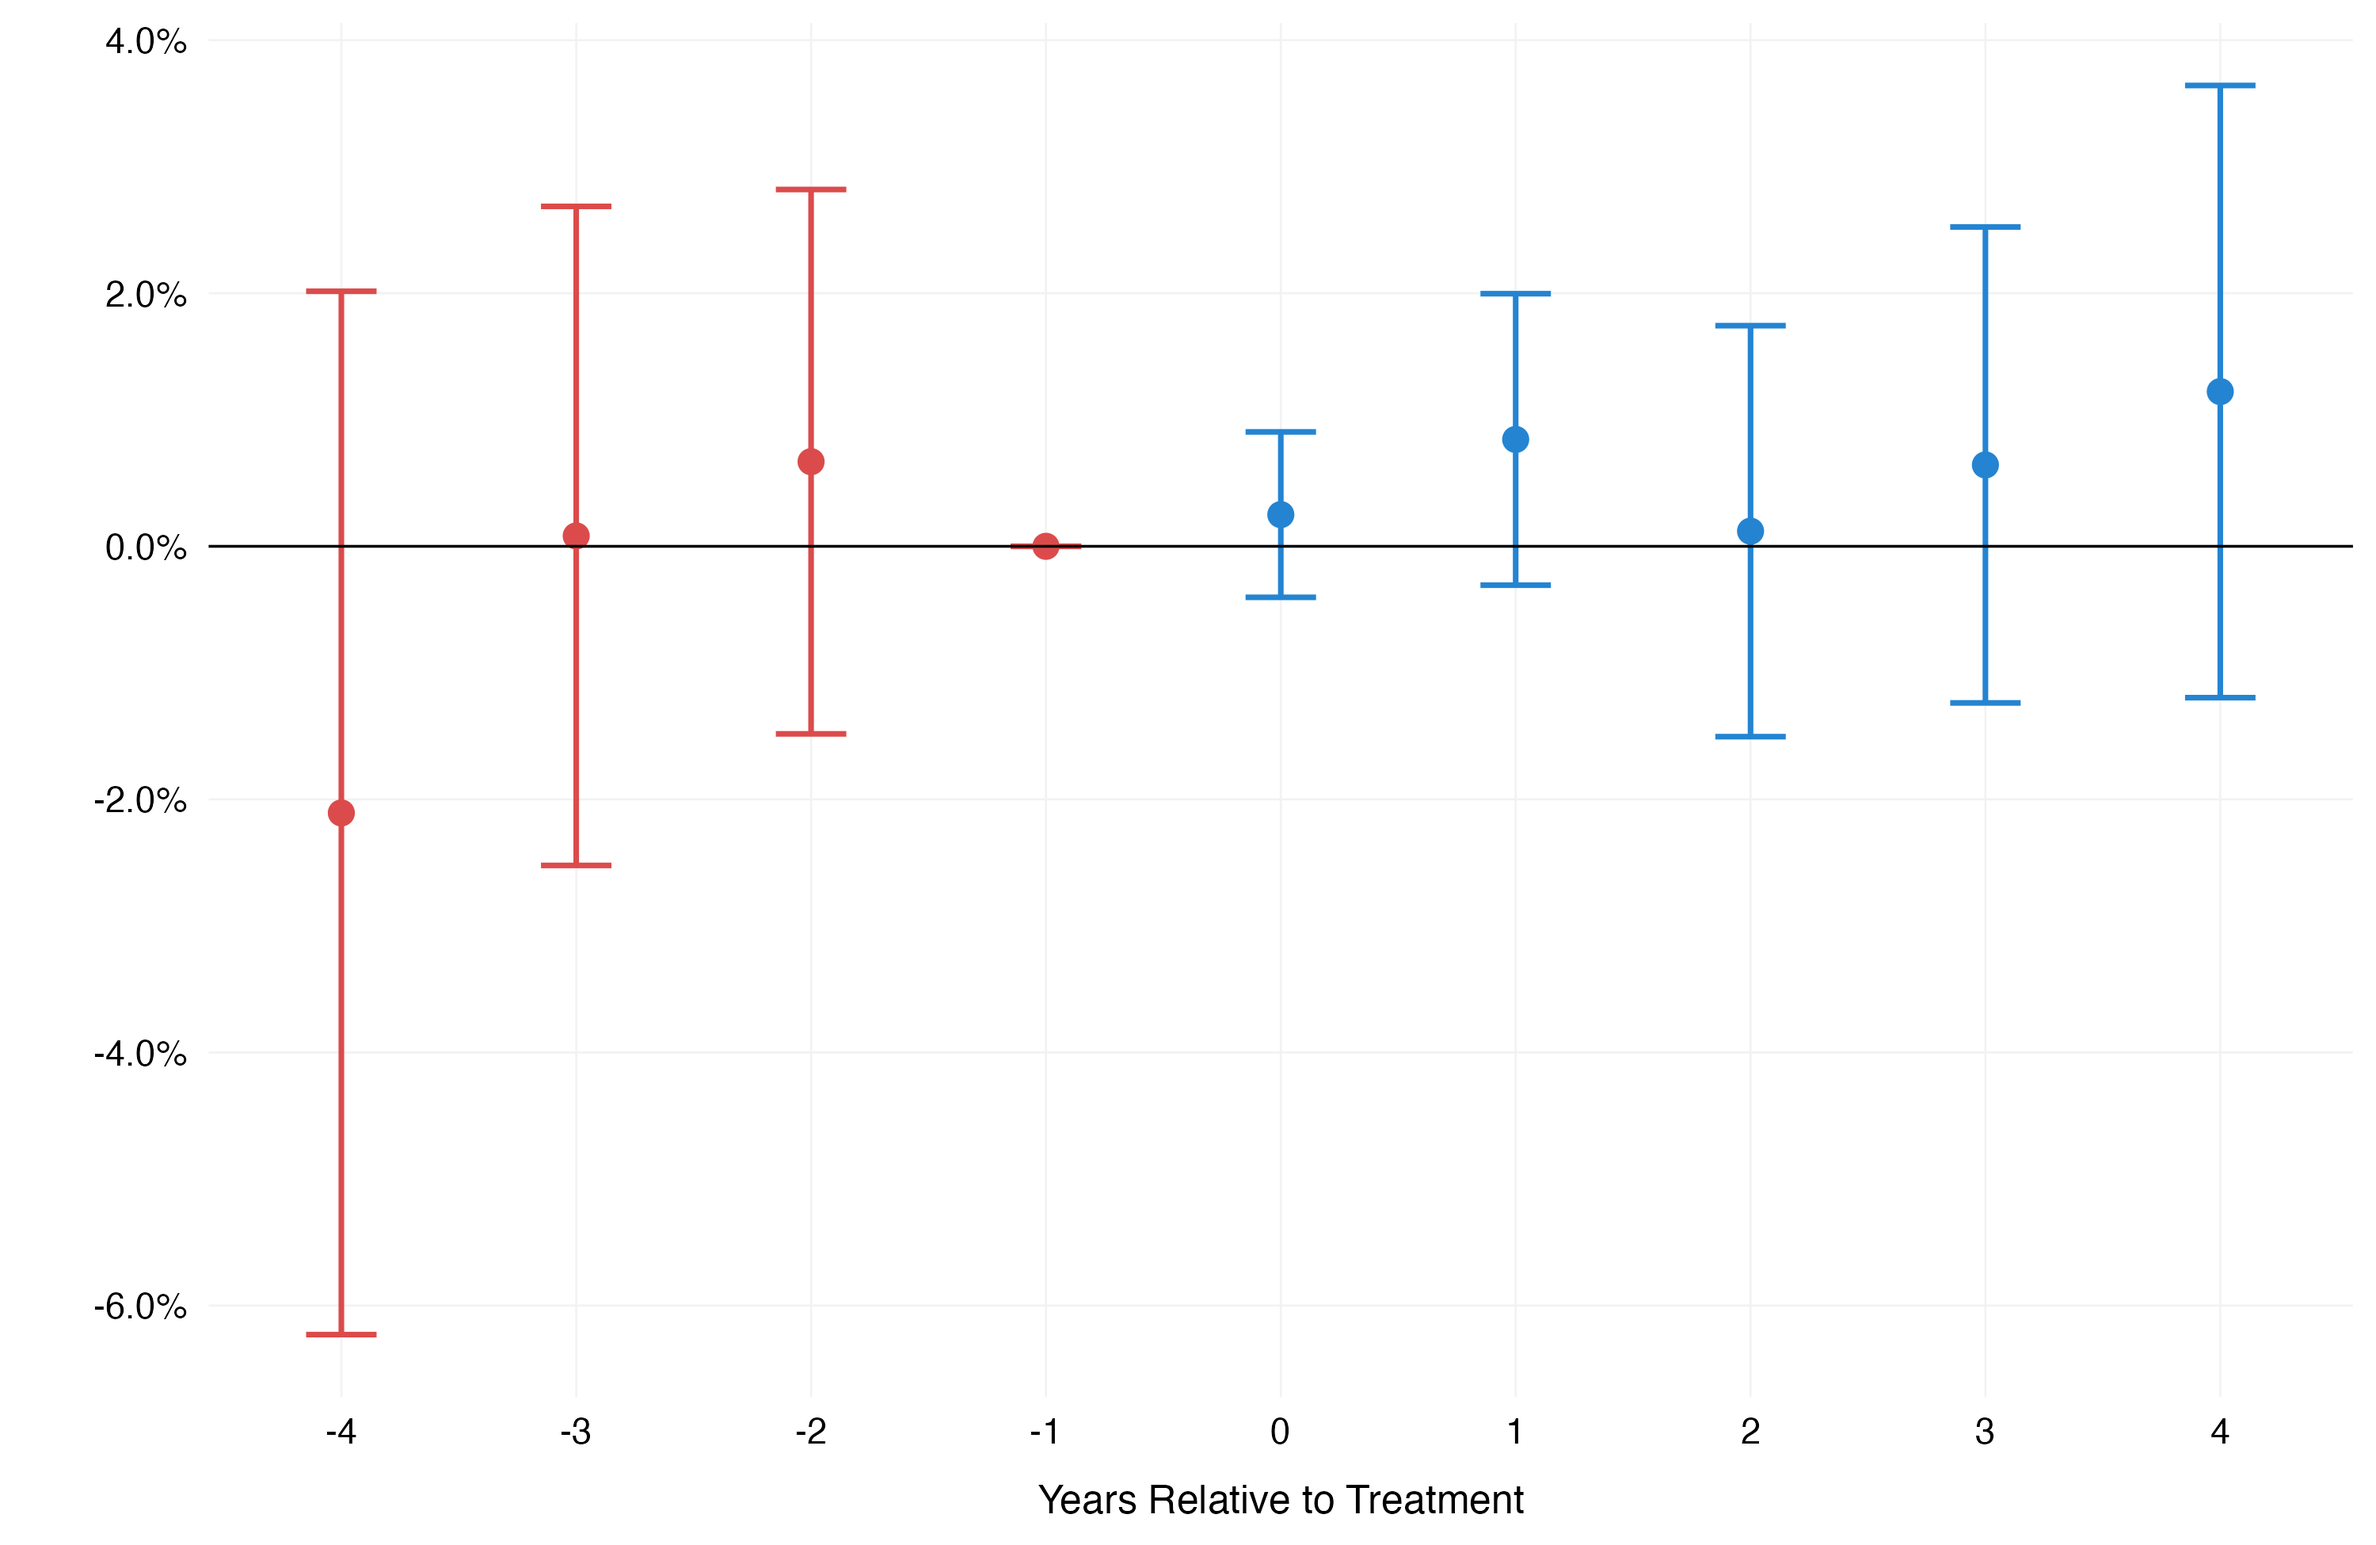
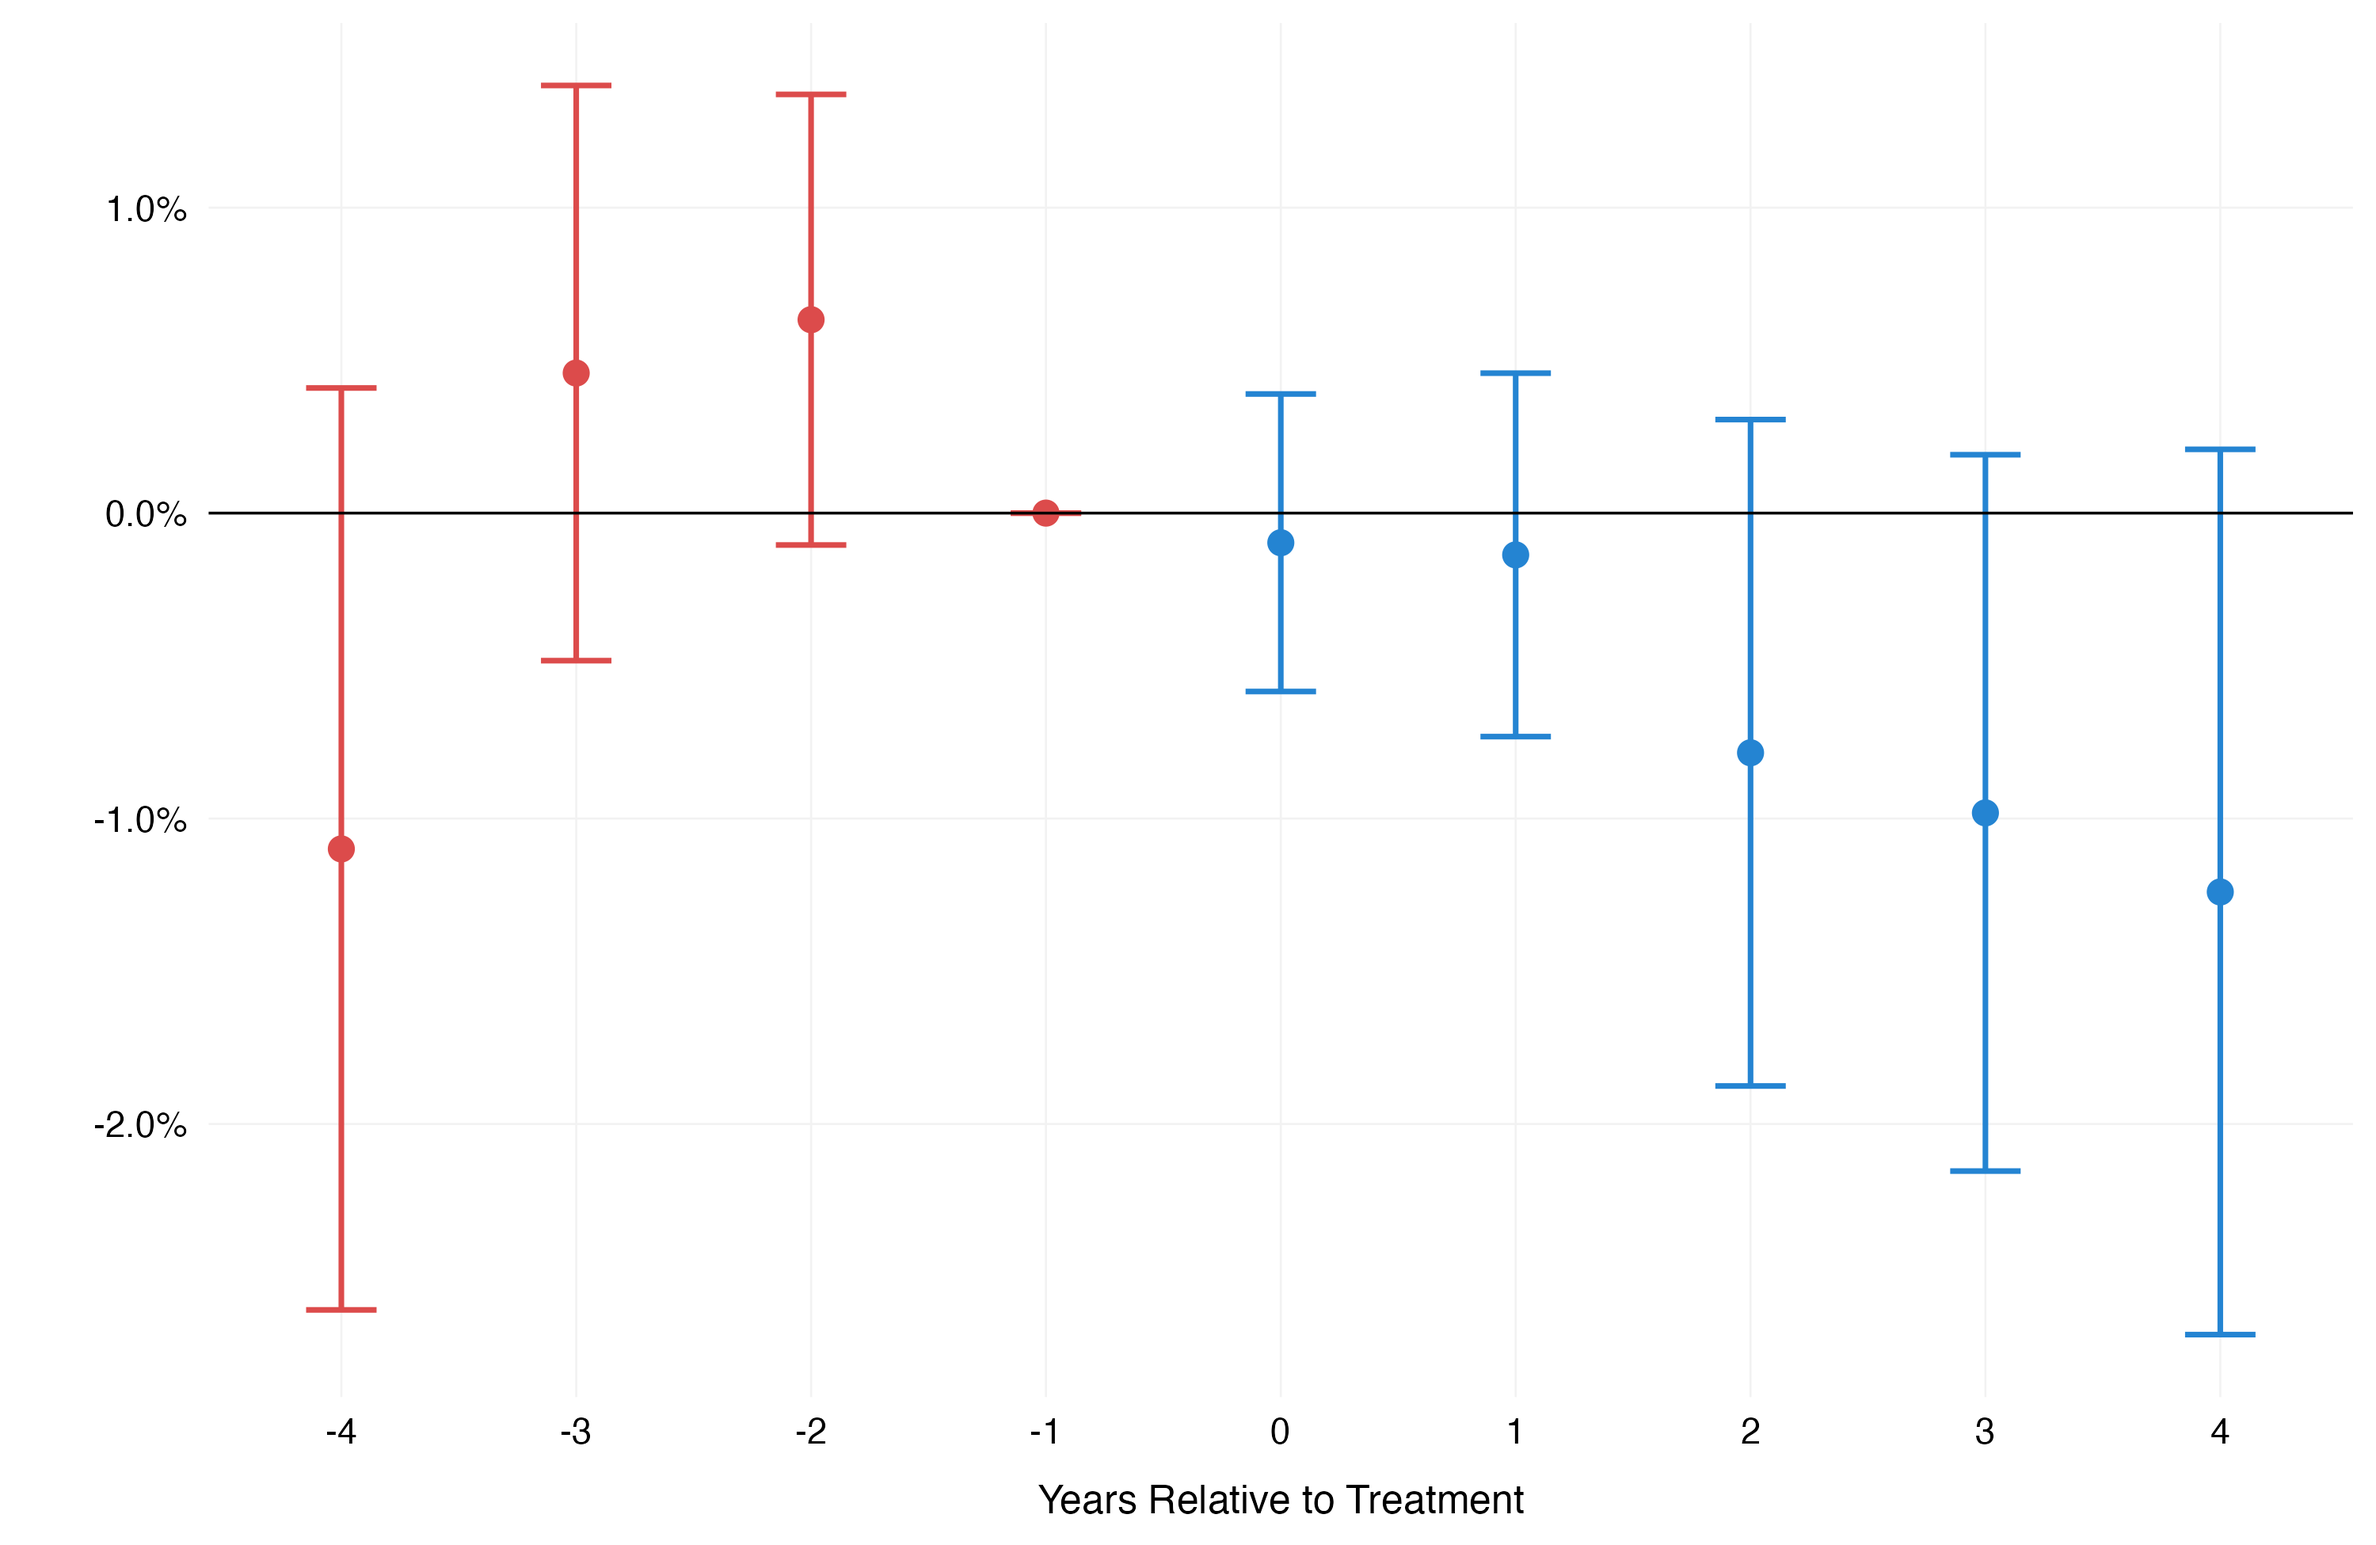
honest did check

diff --git a/service_line_results_table.tex b/service_line_results_table.tex
@@ -8,37 +8,37 @@ Outcome & Pre-Treatment Mean & N Hospitals & ATT\\
 \midrule
 \addlinespace[0.3em]
 \multicolumn{4}{l}{\textbf{Service Line Offered (percentage points)}}\\
-\hspace{1em}Emergency Department & 96.1\% & 1,416 & 0.5pp\\
-\hspace{1em} &  &  & (0.5pp)\\
-\hspace{1em}Psychiatric Emergency Services & 47.2\% & 1,416 & 1.0pp\\
-\hspace{1em} &  &  & (1.1pp)\\
-\hspace{1em}Alcohol/Chemical Dependency Unit & 11.1\% & 1,416 & 1.1pp\\
-\hspace{1em} &  &  & (0.7pp)\\
-\hspace{1em}Trauma Center & 35.0\% & 1,416 & -1.1pp\\
-\hspace{1em} &  &  & (1.8pp)\\
-\hspace{1em}Adult Day Care Program & 43.8\% & 1,416 & 0.3pp\\
-\hspace{1em} &  &  & (0.4pp)\\
-\hspace{1em}Cardiac Catheterization Lab & 57.8\% & 1,416 & 0.7pp\\
-\hspace{1em} &  &  & (0.9pp)\\
-\hspace{1em}ESWL & 40.4\% & 1,416 & 2.5pp**\\
+\hspace{1em}Emergency Department & 98.3\% & 1,327 & -0.4pp\\
+\hspace{1em} &  &  & (0.3pp)\\
+\hspace{1em}Psychiatric Emergency Services & 45.7\% & 1,327 & 0.8pp\\
 \hspace{1em} &  &  & (1.2pp)\\
+\hspace{1em}Alcohol/Chemical Dependency Unit & 10.5\% & 1,325 & 1.0pp\\
+\hspace{1em} &  &  & (1.0pp)\\
+\hspace{1em}Trauma Center & 36.6\% & 1,325 & -1.1pp\\
+\hspace{1em} &  &  & (1.8pp)\\
+\hspace{1em}Adult Day Care Program & 46.6\% & 1,325 & -0.1pp\\
+\hspace{1em} &  &  & (0.5pp)\\
+\hspace{1em}Cardiac Catheterization Lab & 61.0\% & 1,325 & 1.2pp\\
+\hspace{1em} &  &  & (0.9pp)\\
+\hspace{1em}ESWL & 40.9\% & 1,325 & 1.3pp\\
+\hspace{1em} &  &  & (1.5pp)\\
 \addlinespace[0.3em]
 \multicolumn{4}{l}{\textbf{Volume / Bed Counts}}\\
-\hspace{1em}Emergency Department Visits & 39,096 & 1,422 & -936.92\\
-\hspace{1em} &  &  & (581.40)\\
-\hspace{1em}Psychiatric Beds & 14.57 & 1,416 & -0.40\\
+\hspace{1em}Emergency Department Visits & 39,506 & 1,379 & -1,521***\\
+\hspace{1em} &  &  & (518.52)\\
+\hspace{1em}Psychiatric Beds & 14.18 & 1,327 & -0.54*\\
 \hspace{1em} &  &  & (0.31)\\
-\hspace{1em}Alcohol/Chemical Dependency Beds & 1.46 & 1,416 & -0.02\\
-\hspace{1em} &  &  & (0.07)\\
+\hspace{1em}Alcohol/Chemical Dependency Beds & 1.14 & 1,327 & 0.02\\
+\hspace{1em} &  &  & (0.08)\\
 \bottomrule
 \multicolumn{4}{l}{\textsuperscript{} Pooled treated x post coefficient from a stacked difference-in-differences}\\
 \multicolumn{4}{l}{model (Q-weighted, hospital x cohort and year x cohort fixed effects, controls}\\
-\multicolumn{4}{l}{for state Medicaid expansion status and median income, SEs clustered by}\\
-\multicolumn{4}{l}{state). Binary service-line outcomes estimated as a linear probability model;}\\
-\multicolumn{4}{l}{coefficients and pre-treatment means reported in percentage points. N}\\
-\multicolumn{4}{l}{Hospitals is the number of unique treated hospitals with non-missing data}\\
-\multicolumn{4}{l}{contributing to that specific outcome's regression -- coverage varies}\\
-\multicolumn{4}{l}{substantially across these AHA-sourced fields, see}\\
-\multicolumn{4}{l}{service\_line\_summary\_stats.R notes. * p<0.10, ** p<0.05, *** p<0.01.}\\
+\multicolumn{4}{l}{for state Medicaid expansion status and median income, SEs clustered by state).}\\
+\multicolumn{4}{l}{Binary service-line outcomes estimated as a linear probability model;}\\
+\multicolumn{4}{l}{coefficients and pre-treatment means reported in percentage points. N Hospitals}\\
+\multicolumn{4}{l}{is the number of unique treated hospitals with non-missing data contributing to}\\
+\multicolumn{4}{l}{that specific outcome's regression -- coverage varies substantially across}\\
+\multicolumn{4}{l}{these AHA-sourced fields, see service\_line\_summary\_stats.R notes. *}\\
+\multicolumn{4}{l}{p<0.10, ** p<0.05, *** p<0.01.}\\
 \end{tabular}
 \end{table}

diff --git a/service_line_ownership_heterogeneity.tex b/service_line_ownership_heterogeneity.tex
@@ -8,28 +8,28 @@ Outcome & Non-Profit & For-Profit Diff. & For-Profit Own ATT\\
 \midrule
 \addlinespace[0.3em]
 \multicolumn{4}{l}{At Least One Significant Coefficient (p < 0.10)}\\
-\hspace{1em}ESWL & 2.3 & 4.8* & 7.1***\\
-\hspace{1em} & (1.4) & (2.5) & (2.1)\\
-\hspace{1em}Emergency Department & 0.1 & 3.2** & 3.2***\\
-\hspace{1em} & (0.5) & (1.2) & (1.2)\\
-\hspace{1em}Alcohol/Chemical Dependency Unit & 2.4** & -4.4** & -2.0\\
-\hspace{1em} & (1.1) & (2.0) & (1.6)\\
-\hspace{1em}Cardiac Catheterization Lab & 2.8** & -5.5** & -2.8\\
-\hspace{1em} & (1.4) & (2.5) & (2.2)\\
-\hspace{1em}Alcohol/Chemical Dependency Beds & 0.09 & -0.30* & -0.21*\\
-\hspace{1em} & (0.10) & (0.17) & (0.11)\\
-\hspace{1em}Emergency Department Visits & -690.44 & -1364.09 & -2054.53*\\
-\hspace{1em} & (606.39) & (1309.61) & (1190.22)\\
+\hspace{1em}Cardiac Catheterization Lab & 3.5*** & -6.7** & -3.2\\
+\hspace{1em} & (1.1) & (3.0) & (2.7)\\
+\hspace{1em}Emergency Department Visits & -1192.35* & -1162.09 & -2354.44**\\
+\hspace{1em} & (699.51) & (1529.37) & (1160.22)\\
+\hspace{1em}Alcohol/Chemical Dependency Unit & 2.3* & -4.3* & -2.0\\
+\hspace{1em} & (1.3) & (2.2) & (1.7)\\
 \addlinespace[0.3em]
 \multicolumn{4}{l}{No Significant Association}\\
-\hspace{1em}Psychiatric Emergency Services & 1.0 & 2.3 & 3.3\\
-\hspace{1em} & (1.7) & (3.4) & (2.1)\\
-\hspace{1em}Adult Day Care Program & 0.8 & -1.5 & -0.7\\
-\hspace{1em} & (0.5) & (1.9) & (1.7)\\
+\hspace{1em}Emergency Department & -0.6 & 1.2 & 0.6\\
+\hspace{1em} & (0.4) & (1.1) & (1.0)\\
+\hspace{1em}Alcohol/Chemical Dependency Beds & 0.14 & -0.32 & -0.17\\
+\hspace{1em} & (0.12) & (0.21) & (0.13)\\
+\hspace{1em}ESWL & 1.9 & 1.3 & 3.2\\
+\hspace{1em} & (1.7) & (2.7) & (2.6)\\
 \hspace{1em}Trauma Center & -1.4 & 5.4 & 4.0\\
-\hspace{1em} & (1.6) & (4.7) & (4.6)\\
-\hspace{1em}Psychiatric Beds & -0.34 & 0.96 & 0.62\\
-\hspace{1em} & (0.38) & (0.85) & (0.70)\\
+\hspace{1em} & (1.9) & (4.6) & (4.5)\\
+\hspace{1em}Psychiatric Beds & -0.43 & 0.38 & -0.05\\
+\hspace{1em} & (0.39) & (0.76) & (0.62)\\
+\hspace{1em}Psychiatric Emergency Services & 0.8 & 1.3 & 2.1\\
+\hspace{1em} & (1.9) & (3.5) & (2.0)\\
+\hspace{1em}Adult Day Care Program & 0.1 & -1.3 & -1.2\\
+\hspace{1em} & (0.7) & (2.3) & (2.1)\\
 \bottomrule
 \end{tabular}
 \end{table}

diff --git a/main_results_table.tex b/main_results_table.tex
@@ -6,35 +6,28 @@
 \toprule
 Outcome & Pre-Treatment Mean & ATT\\
 \midrule
-Operating Expenses per Bed & 840,969 & 36,502**\\
- &  & (16,446)\\
-Net Patient Revenue per Bed & 850,479 & 35,280**\\
- &  & (16,447)\\
-Operating Margin & 0.013 & -0.001\\
+Operating Expenses per Bed & 840,969 & 35,740**\\
+ &  & (16,844)\\
+Net Patient Revenue per Bed & 850,479 & 33,766**\\
+ &  & (16,258)\\
+Operating Margin & 0.013 & -0.002\\
 \addlinespace
  &  & (0.007)\\
-Medicaid Share of Discharges & 0.147 & 0.014**\\
+Medicaid Share of Discharges & 0.147 & 0.013**\\
  &  & (0.005)\\
-Non-Public Share of Discharges & 0.482 & -0.014*\\
- &  & (0.007)\\
-\addlinespace
-Medicaid Discharges per Bed & 7.342 & 0.619**\\
+Medicaid Discharges per Bed & 7.342 & 0.571**\\
  &  & (0.267)\\
-Non-Public Discharges per Bed & 25.667 & -0.691**\\
- &  & (0.321)\\
-Total Discharges per Bed & 51.335 & 0.224\\
 \addlinespace
- &  & (0.334)\\
-Uncompensated Care per Bed & 116,331 & -12,881\\
- &  & (11,315)\\
-Uncompensated Care as \% of NPR & 0.131 & -0.020\\
- &  & (0.013)\\
+Total Discharges per Bed & 51.335 & 0.175\\
+ &  & (0.327)\\
+Uncompensated Care per Bed & 112,227 & -13,265*\\
+ &  & (7,129)\\
+Uncompensated Care as \% of NPR & 0.131 & -0.017\\
+\addlinespace
+ &  & (0.011)\\
 \bottomrule
-\multicolumn{3}{l}{\textsuperscript{} Pooled treated x post coefficient from a stacked}\\
-\multicolumn{3}{l}{difference-in-differences model (Q-weighted, hospital}\\
-\multicolumn{3}{l}{x cohort and year x cohort fixed effects, controls for}\\
-\multicolumn{3}{l}{state Medicaid expansion status and median income, SEs}\\
-\multicolumn{3}{l}{clustered by state). Unique treated hospitals: 1380. *}\\
-\multicolumn{3}{l}{p<0.10, ** p<0.05, *** p<0.01.}\\
+
+\multicolumn{3}{l}{\footnotesize Standard errors clustered at the state level.}\\
+\multicolumn{3}{l}{\footnotesize * p$<$0.10, ** p$<$0.05, *** p$<$0.01.}\\
 \end{tabular}
 \end{table}

diff --git a/main_results_ownership_heterogeneity.tex b/main_results_ownership_heterogeneity.tex
@@ -6,17 +6,17 @@
 \toprule
 Outcome & For-Profit Diff.\\
 \midrule
-Operating Expenses per Bed & -7,618 (32,369)\\
-Net Patient Revenue per Bed & -6,452 (37,782)\\
-Operating Margin & -0.003 (0.014)\\
-Medicaid Share of Discharges & 0.001 (0.008)\\
-Non-Public Share of Discharges & -0.005 (0.010)\\
+Operating Expenses per Bed & -4,984 (34,034)\\
+Net Patient Revenue per Bed & -3,083 (38,444)\\
+Operating Margin & -0.001 (0.015)\\
+Medicaid Share of Discharges & 0.004 (0.008)\\
+Non-Public Share of Discharges & -0.007 (0.010)\\
 \addlinespace
-Medicaid Discharges per Bed & -0.364 (0.372)\\
-Non-Public Discharges per Bed & -0.629 (0.851)\\
-Total Discharges per Bed & -0.916 (0.990)\\
-Uncompensated Care per Bed & 15,102 (12,039)\\
-Uncompensated Care as % of NPR & 0.015 (0.025)\\
+Medicaid Discharges per Bed & -0.198 (0.370)\\
+Non-Public Discharges per Bed & -0.648 (0.835)\\
+Total Discharges per Bed & -0.751 (0.943)\\
+Uncompensated Care per Bed & 10,324 (10,843)\\
+Uncompensated Care as % of NPR & 0.012 (0.024)\\
 \bottomrule
 \multicolumn{2}{l}{\textsuperscript{} Triple-interaction model (treated x post x}\\
 \multicolumn{2}{l}{for\_profit) on the full stacked sample:}\\

diff --git a/window_robustness.tex b/window_robustness.tex
@@ -6,16 +6,16 @@
 \toprule
 Outcome & +/-3 years & +/-4 years (canonical) & +/-5 years\\
 \midrule
-Operating Expenses per Bed & 26,528* & 33,538* & 37,367*\\
- & (14,647) & (17,742) & (19,227)\\
-Net Patient Revenue per Bed & 24,817* & 31,874* & 37,248*\\
- & (13,708) & (17,329) & (19,042)\\
-Medicaid Share of Discharges & 0.0101** & 0.0131** & 0.0139**\\
+Operating Expenses per Bed & 26,876* & 35,740** & 40,109**\\
+ & (14,324) & (16,844) & (18,259)\\
+Net Patient Revenue per Bed & 25,066* & 33,766** & 39,410**\\
+ & (13,322) & (16,258) & (17,812)\\
+Medicaid Share of Discharges & 0.0100** & 0.0130** & 0.0136**\\
 \addlinespace
  & (0.0044) & (0.0052) & (0.0065)\\
-Uncompensated Care per Bed (Wins. 1\%/95\%) & -9,457 & -13,132* & -13,335\\
- & (6,770) & (6,941) & (8,042)\\
-N Hospitals & 1,518 & 1,423 & 1,377\\
+Uncompensated Care per Bed (Wins. 1\%/95\%) & -9,600 & -13,265* & -13,125\\
+ & (6,923) & (7,129) & (8,334)\\
+N Hospitals & 1,499 & 1,380 & 1,321\\
 \bottomrule
 \end{tabular}
 \end{table}
